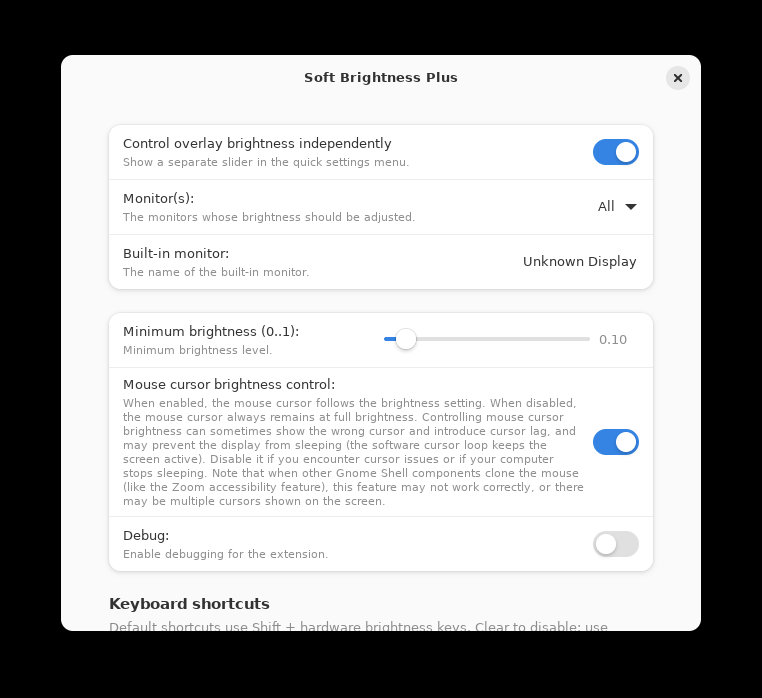
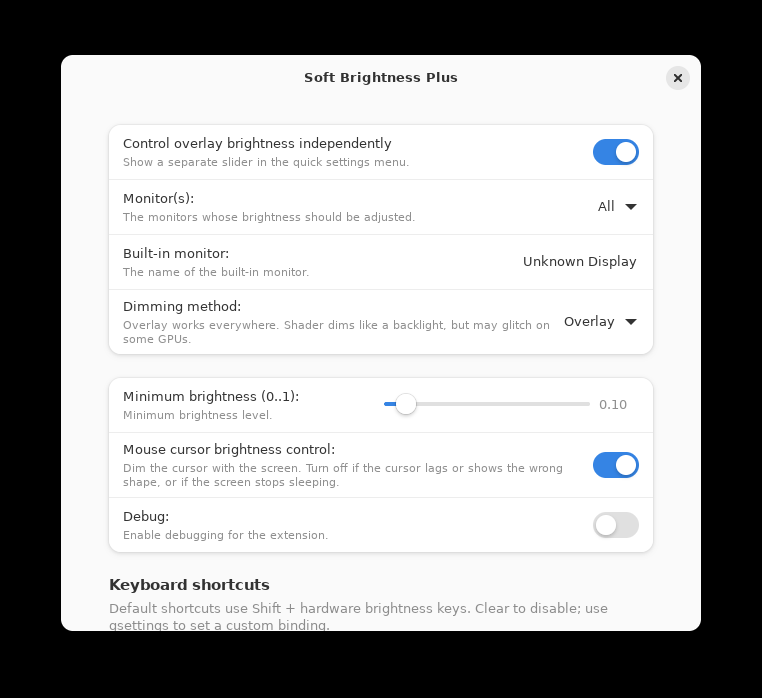
fix(prefs): short subtitles; disable dimming method on GNOME 51
The Dimming method row reused the full schema description as its
subtitle, which squeezed the dropdown to "Ov…". Give it and the mouse
cursor row short subtitles of their own; the schema descriptions keep
the details for gsettings/dconf-editor.

On GNOME 51+ shader dimming is unavailable (Shell.GLSLEffect was
removed), so the row is shown insensitive at "Overlay" with a one-line
explanation instead of offering a choice that does nothing. The stored
setting is left untouched. The Shell version comes from the prefs
config module, as gjs.guide recommends.

Regenerate docs/preferences.png (GNOME 46).

Changed region(s): [[0.1207, 0.5415, 0.8451, 0.9026], [0.1509, 0.4212, 0.815, 0.5115], [0.7546, 0.7221, 0.8451, 0.8123]]

diff --git a/src/prefs.js b/src/prefs.js
@@ -24,7 +24,14 @@ import {
     gettext as _,
 } from 'resource:///org/gnome/Shell/Extensions/js/extensions/prefs.js';
 
+import * as Config from 'resource:///org/gnome/Shell/Extensions/js/misc/config.js';
+
 import * as Utils from './utils.js';
+
+// In GS 51, Shell.GLSLEffect was removed; until the shader is ported,
+// the extension always uses the overlay there (see SHADER_SUPPORTED in
+// extension.js).
+const SHADER_AVAILABLE = parseInt(Config.PACKAGE_VERSION) < 51;
 
 export default class SoftBrightnessPreferences extends ExtensionPreferences {
     fillPreferencesWindow(window) {
@@ -87,18 +94,23 @@ const PreferencesPage = GObject.registerClass(class PreferencesPage extends Adw.
             const dimmingModel = new Gtk.StringList();
             dimmingModel.append(_('Overlay'));
             dimmingModel.append(_('Shader'));
+            // Short subtitle here; the schema description has the details.
             this.dimming_mode_control = new Adw.ComboRow({
                 title: _('Dimming method:'),
-                subtitle: this._getDescription('dimming-mode'),
+                subtitle: SHADER_AVAILABLE
+                    ? _('Overlay works everywhere. Shader dims like a backlight, but may glitch on some GPUs.')
+                    : _('Shader dimming is not yet available on GNOME 51.'),
                 model: dimmingModel,
-                selected: this._settings.get_enum('dimming-mode'),
+                selected: SHADER_AVAILABLE ? this._settings.get_enum('dimming-mode') : 0,
+                sensitive: SHADER_AVAILABLE,
             });
             this.dimming_mode_control.connect('notify::selected', () => {
                 if (this._settings.get_enum('dimming-mode') !== this.dimming_mode_control.selected)
                     this._settings.set_enum('dimming-mode', this.dimming_mode_control.selected);
             });
             this._settings.connect('changed::dimming-mode', () => {
-                this.dimming_mode_control.set_selected(this._settings.get_enum('dimming-mode'));
+                if (SHADER_AVAILABLE)
+                    this.dimming_mode_control.set_selected(this._settings.get_enum('dimming-mode'));
             });
             group.add(this.dimming_mode_control);
 
@@ -139,7 +151,7 @@ const PreferencesPage = GObject.registerClass(class PreferencesPage extends Adw.
 
             this.clone_mouse_control = new Adw.SwitchRow({
                 title: _('Mouse cursor brightness control:'),
-                subtitle: this._getDescription('clone-mouse'),
+                subtitle: _('Dim the cursor with the screen. Turn off if the cursor lags or shows the wrong shape, or if the screen stops sleeping.'),
             });
             this._settings.bind('clone-mouse', this.clone_mouse_control, 'active', Gio.SettingsBindFlags.DEFAULT);
             group.add(this.clone_mouse_control);
